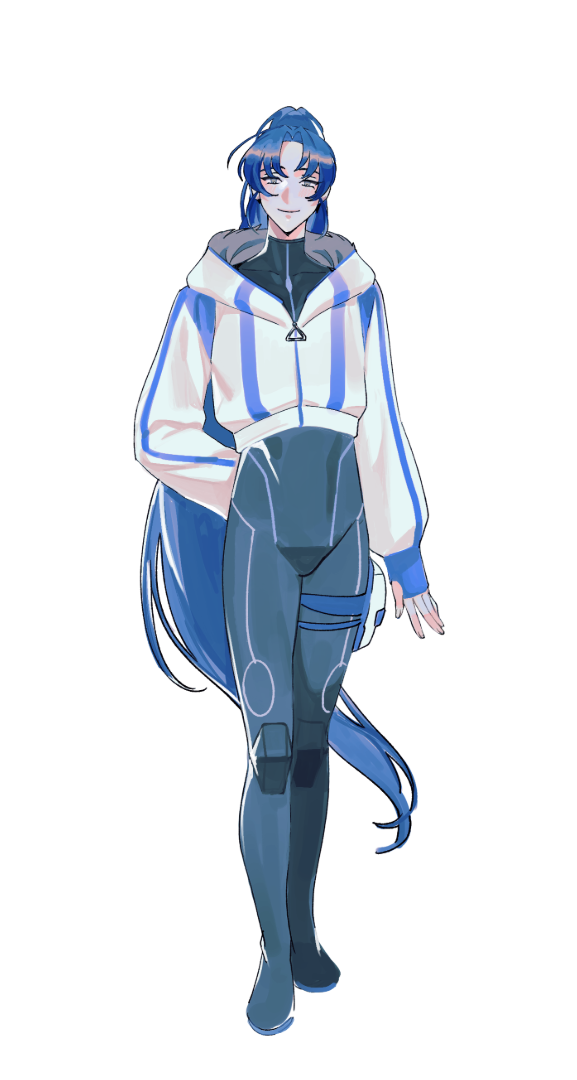
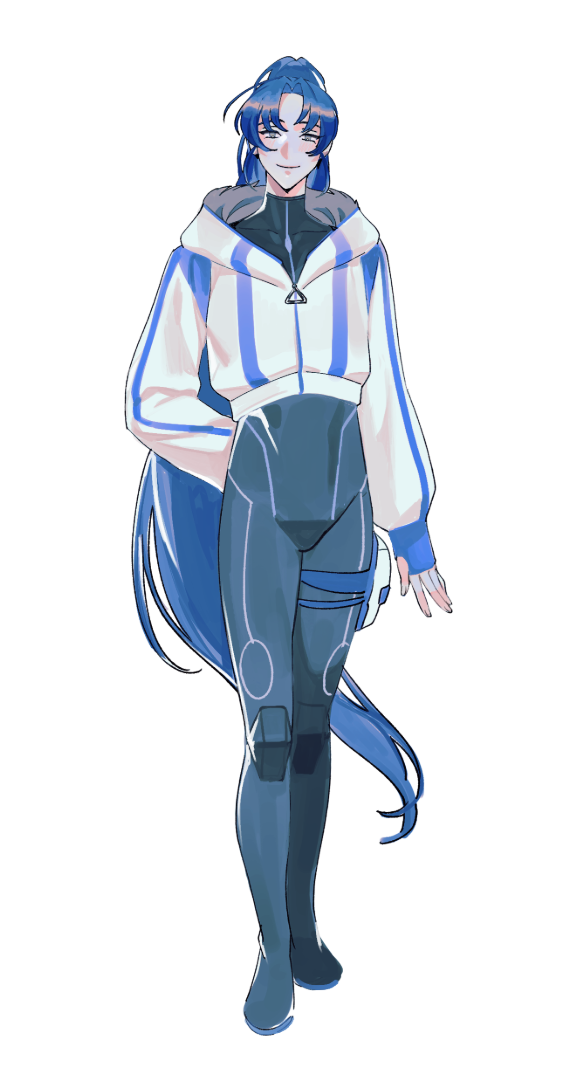
feat: 6명 한복테크웨어 의상 추가 + 옷장 전환/무대 접기 애니메이션 수정
- 옷장에 한복테크 의상 추가(이미지 6장 + 배치값), 사용자가 눈으로 보며 최종 미세조정
- 셀루카 키 오타(185→195) 수정 + 라인업 이미지 재생성
- 에스·민트의 옷장 전환 페이드가 안 보이던 버그 수정(.art 대신 .stage 전체를 페이드)
- 무대 접기 버튼 애니메이션 추가 + 그 과정에서 생긴 버튼 잘림 버그 수정

diff --git a/src/assets/css/profile.css b/src/assets/css/profile.css
@@ -88,13 +88,21 @@ body{font-family:'Chakra Petch','Pretendard','Gothic A1',sans-serif}
    맨 위에서 스크롤을 앞뒤로 오갈 때 그 차이만큼(예: 4px) 옷장·무대가 뚝뚝 튀는(들썩거리는) 게 없어짐 —
    .sheet padding-top 값이 바뀌면 이 +4px 도 같이 맞출 것. */
 .left-fixed{position:relative;position:sticky;top:calc(var(--osbar-h) + var(--topbar-h) + 4px);display:grid;grid-template-columns:88px auto;gap:20px;align-items:start}
+  /* ★overflow:hidden을 여기 두면 안 됨(2026-08-03 버그) — .stage-fold-tab이 이 박스 오른쪽 경계에
+     절반 걸쳐 있는데(right:-14px), overflow:hidden이면 탭 절반이 잘려 보임. 어차피 opacity:0인 동안엔
+     보이지도 않으니(아래) 클리핑 없이도 안 튀어 보임 — 굳이 필요 없어서 뺌. */
 /* 읽기 모드(2026-08-01) : 옷장·무대(.left-fixed)를 접고 .file이 그 폭까지 넓게 채운다.
    첫 칸을 0이 아니라 28px로 남겨두는 건 아래 .stage-fold-tab(접기 탭)이 계속 앉을 자리를 주기 위함 —
    탭은 .left-fixed 오른쪽 끝에 붙여두므로(right:-14px) 이 칸이 좁아지면 탭도 따라 왼쪽으로 붙는다.
    좁은 화면(아래 미디어쿼리)은 그 자체로 1열 스택이라 따로 오버라이드함. */
 .sheet.read-mode{grid-template-columns:28px 1fr}
-.sheet.read-mode .left-fixed .wardrobe,
-.sheet.read-mode .left-fixed .stage-col{display:none}
+/* ★부드러운 접기/펼치기(2026-08-03) — grid-template-columns 자체는 auto/minmax↔고정값 조합이라
+   브라우저가 트랜지션을 못 태워 순간 스냅되므로, 열 폭이 바뀌기 '전에' 내용만 먼저 페이드로 지웠다가
+   (.folding) 빈 상태로 열 폭을 스냅 전환하고, 펼칠 땐 열 폭을 먼저 스냅으로 늘린 뒤 내용을 페이드인한다
+   (profile.js 가 두 클래스를 시간차로 여닫음) — 결과적으로 뚝 끊기지 않고 부드럽게 보임. */
+.left-fixed .wardrobe,.left-fixed .stage-col{transition:opacity .2s ease}
+.sheet.folding .left-fixed .wardrobe,
+.sheet.folding .left-fixed .stage-col{opacity:0;pointer-events:none}
 /* 접기/펼치기 탭 : 옷장·무대와 서술카드 사이 경계에 걸쳐 놓는 작은 원형 화살표.
    FX ON/SCAN ON 같은 사각 상태칩과는 확실히 다른 모양(원형+화살표 아이콘)이라 "이걸 누르면 옆이 접힌다"가 바로 보임.
    위치는 .left-fixed 오른쪽 끝 고정(right:-14px, 절반은 카드 쪽으로 걸침) — 접힌 뒤 .left-fixed 폭이 28px로
@@ -130,7 +138,8 @@ body{font-family:'Chakra Petch','Pretendard','Gothic A1',sans-serif}
   border-radius:6px;overflow:hidden;
   background:radial-gradient(90% 70% at 50% 18%,var(--elev),transparent 62%),linear-gradient(180deg,var(--elev2) 0%,var(--bg-tint) 100%);
   border:1px solid var(--line-soft);box-shadow:0 10px 40px -20px rgba(40,60,90,.35);
-  display:flex;flex-direction:column;align-items:center;justify-content:flex-end}
+  display:flex;flex-direction:column;align-items:center;justify-content:flex-end;
+  transition:opacity .35s ease}   /* ★옷장 의상 전환 페이드(2026-08-03) — 무대 전체를 페이드해서 안의 진짜 이미지든 효과 캔버스든 다 같이 가려짐 */
 .stage .corner{position:absolute;width:20px;height:20px;border:1.5px solid var(--accent-line);z-index:6}
 .stage .corner.tl{top:12px;left:12px;border-right:none;border-bottom:none}
 .stage .corner.tr{top:12px;right:12px;border-left:none;border-bottom:none}

diff --git a/src/assets/js/profile.js b/src/assets/js/profile.js
@@ -119,16 +119,20 @@
         s.classList.add('on');               // 슬롯 선택 표시(즉시)
         if(!art){ applyAll(s); return; }
         // ★의상 전환을 부드럽게 : 새 의상 미리 로드 → 페이드아웃 → 교체 → 페이드인 (뚝 바뀌지 않게)
-        //   페이드는 .art/.ghost 의 CSS transition:opacity 가 담당(별도 애니메이션 불필요).
+        //   ★.art/.ghost 각각이 아니라 .stage 전체를 페이드한다(2026-08-03, 이전엔 .art만 페이드했더니
+        //   S·민트처럼 '화면 장악' 효과가 진짜 일러 대신 캔버스에 매 프레임 그림을 새로 그려서 보여주는
+        //   경우엔 안 보였음 — 캔버스는 opacity 트랜지션과 무관하게 매 프레임 그대로 다시 그려지기 때문.
+        //   부모인 .stage 자체를 페이드하면 안에 뭐가 있든(진짜 이미지든 캔버스든) 다 같이 가려진다).
+        var stageEl = document.querySelector('.stage');
         var pre = new Image();               // 교체 순간 깜빡임 방지용 사전 로드
         var swap = function(){
           art.src = img; if(ghost) ghost.src = img;   // (이미 로드된) 새 의상으로 교체
           applyAll(s);                                 // 크기·위치도 새 의상 기준으로
-          art.style.opacity = ''; if(ghost) ghost.style.opacity = '';   // 페이드인
+          if(stageEl) stageEl.style.opacity = '';       // 페이드인
         };
         pre.onload = pre.onerror = function(){
-          art.style.opacity = '0'; if(ghost) ghost.style.opacity = '0'; // 페이드아웃
-          setTimeout(swap, 300);             // .art transition(.35s)에 맞춰 거의 사라진 뒤 교체→페이드인
+          if(stageEl) stageEl.style.opacity = '0';      // 페이드아웃
+          setTimeout(swap, 300);             // .stage transition(.35s)에 맞춰 거의 사라진 뒤 교체→페이드인
         };
         pre.src = img;
       });
@@ -447,15 +451,26 @@
 (function(){
   var btn = document.getElementById('stageViewToggle'), sheet = document.querySelector('.sheet');
   if(!btn || !sheet) return;
-  var expanded = true;
-  function paint(){
-    sheet.classList.toggle('read-mode', !expanded);
+  var expanded = true, busy = false;
+  function paintBtn(){
     btn.textContent = expanded ? '‹' : '›';
     btn.title = expanded ? '옷장·무대 접기' : '옷장·무대 펼치기';
   }
-  paint();
+  paintBtn();
   btn.addEventListener('click', function(){
-    expanded = !expanded;
-    paint();
+    if(busy) return;                 // 애니메이션 도중 연타 방지
+    expanded = !expanded; paintBtn(); busy = true;
+    if(!expanded){
+      // 접기 : 내용부터 페이드아웃(.2s) → 다 지워진 뒤에야 열 폭을 스냅으로 줄인다(빈 상태라 안 튐).
+      sheet.classList.add('folding');
+      setTimeout(function(){ sheet.classList.add('read-mode'); busy = false; }, 200);
+    } else {
+      // 펼치기 : 열 폭부터 스냅으로 늘리고(아직 내용은 숨김 상태) → 다음 프레임에 페이드인.
+      sheet.classList.remove('read-mode');
+      requestAnimationFrame(function(){
+        sheet.classList.remove('folding');
+        setTimeout(function(){ busy = false; }, 200);
+      });
+    }
   });
 })();

diff --git a/src/tools/profile-builder.html b/src/tools/profile-builder.html
@@ -1810,7 +1810,7 @@ function buildSrcdoc(st){
     '<link href="https://fonts.googleapis.com/css2?family=Orbitron:wght@600;700;900&family=Chakra+Petch:ital,wght@0,300;0,400;0,500;0,600;1,300;1,400&family=Share+Tech+Mono&family=Gothic+A1:wght@300;400;500;700;800&display=swap" rel="stylesheet">'+
     '<link rel="stylesheet" href="../../assets/css/common.css">'+
     '<link rel="stylesheet" href="../../assets/css/transitions.css">'+
-    '<link rel="stylesheet" href="../../assets/css/profile.css?v=46">'+
+    '<link rel="stylesheet" href="../../assets/css/profile.css?v=47">'+
     '<style>:root,:root[data-theme="dark"]{--accent:'+accent+';--accent2:'+accent2+';'+(st.statPlus?'--stat-plus:'+st.statPlus+';':'')+'}:root[data-theme="light"]{--accent:'+accentL+';'+(accent2L?'--accent2:'+accent2L+';':'')+'}'+
     '.stage .ghost{display:block}'+   /* 미리보기(폭 좁음)에서 고스트 확실히 표시 — profile.css 캐시와 무관하게. !important 안 씀=이미지 없을 때 profile.js 인라인 숨김은 존중 */
     '[data-edit]{cursor:text;border-radius:3px}[data-edit]:hover{box-shadow:0 0 0 1px var(--accent-line,#7aa)}[data-edit]:focus{outline:none;box-shadow:0 0 0 2px var(--accent);background:rgba(120,180,210,.07)}'+
@@ -1855,7 +1855,7 @@ function buildSrcdoc(st){
     '<script>window.CHAR_META='+CH(st.meta)+';window.CHAR_STATS='+CH(st.stats)+';'+
       'window.CHAR_WARDROBE='+CH(ward)+';window.CHAR_GENERATIONS='+CH(gens)+';<\/script>'+
     '<script src="../../assets/js/common.js?v=7"><\/script>'+
-    '<script src="../../assets/js/profile.js?v=31"><\/script>'+
+    '<script src="../../assets/js/profile.js?v=32"><\/script>'+
     '<script src="../../assets/js/stage-fx.js?v=129"><\/script>'+
     // 서술/확장 카드 안 코드블럭 문법강조(실제 페이지 _layouts/character.html과 같은 CDN 라이브러리 — 모양 바꾸면 거기도 같이).
     //   미리보기는 폼을 고칠 때마다 liveText()가 이 패널만 다시 그리는데, 그때는 페이지 재로드가 아니라서 이 스크립트가 다시

diff --git a/src/characters/seluka/index.html b/src/characters/seluka/index.html
@@ -7,8 +7,8 @@ art: "seluka_full.png"
 art_artist: "숨니"
 art_alt: "셀루카 디안"
 meta: { title: "SELUKA", record: "M-05", crumb: "SELUKA", sector: "HEADQUARTER · SECTOR 1", code: "SELUKA", id: "TS-M05" }
-roster: { ko: "셀루카", role: "HITMAN", age: "21Y", height: 185, sec: 1 }
-namehead: { eyebrow: "얼어붙은 다정", kr: "셀루카 디안", en: "SELUKA Dian", idmeta: "21Y · 185cm · 3/20 · 제1지부 히트맨" }
+roster: { ko: "셀루카", role: "HITMAN", age: "21Y", height: 195, sec: 1 }
+namehead: { eyebrow: "얼어붙은 다정", kr: "셀루카 디안", en: "SELUKA Dian", idmeta: "21Y · 195cm · 3/20 · 제1지부 히트맨" }
 idcard: { img: "seluka_id.jpg", status: "ACTIVE" }
 stats:
   - ["신체강도", 5]
@@ -26,7 +26,7 @@ stats:
 wardrobe:
   - { cap: "후드", img: "seluka_full.png", artist: "숨니", "on": true, arth: "97%", shiftx: "11%", shift: "-1%", ghosth: "124.5%", ghostx: "3%", ghosty: "-1%" }
   - { cap: "정장", img: "" }
-  - { cap: "한복테크", img: "" }
+  - { cap: "한복테크", img: "seluka_hanbok.png", artist: "숨니,빠", arth: "89.3%", shiftx: "11.3%", shift: "-6.5%", ghosth: "124.3%", ghostx: "6.9%", ghosty: "1.9%" }
 generations:
   current: "3"
   items:

diff --git a/src/_layouts/character.html b/src/_layouts/character.html
@@ -11,7 +11,7 @@
 
 <link rel="stylesheet" href="../../assets/css/common.css?v=2">
 <link rel="stylesheet" href="../../assets/css/transitions.css?v=1">
-<link rel="stylesheet" href="../../assets/css/profile.css?v=46">
+<link rel="stylesheet" href="../../assets/css/profile.css?v=47">
 <script src="../../assets/js/common.js?v=7"></script>
 <script src="../../assets/js/transitions.js?v=3"></script>
 
@@ -114,7 +114,7 @@
   window.CHAR_GENERATIONS = {{ page.generations | jsonify }};
   window.CHAR_ROSTER      = {{ page.roster      | jsonify }};
 </script>
-<script src="../../assets/js/profile.js?v=31"></script>
+<script src="../../assets/js/profile.js?v=32"></script>
 <script src="../../assets/js/stage-fx.js?v=129"></script>
 <script src="../../assets/js/motion.js?v=3"></script>
 <!-- 서술/확장 카드 안 코드블럭(```로 감싼 부분) 문법강조. 코드블럭이 없는 캐릭터는 그냥 아무 일도 안 함. -->

diff --git a/src/characters/s/index.html b/src/characters/s/index.html
@@ -24,8 +24,8 @@ stats:
   - ["살상능력", 3]
 wardrobe:
   - { cap: "후드", img: "s_full.png", artist: "빠", "on": true, shiftx: "2.8%", shift: "-7.6%", ghostx: "1.1%", ghosty: "0.6%" }
-  - { cap: "정장", img: "s_suit.png", arth: "94.6%", shiftx: "6.5%", shift: "-2.2%", ghostx: "0.9%", ghosty: "-1.9%" }
-  - { cap: "한복테크", img: "" }
+  - { cap: "정장", img: "s_suit.png", artist: "빠", arth: "94.6%", shiftx: "6.5%", shift: "-2.2%", ghosth: "130.5%", ghostx: "1.8%", ghosty: "-0.5%" }
+  - { cap: "한복테크", img: "s_hanbok.png", artist: "빠", arth: "84.3%", shiftx: "10.4%", shift: "-8%", ghosth: "123%", ghostx: "4.4%", ghosty: "0.6%" }
 generations:
   current: "3"
   items:

diff --git a/src/characters/merely/index.html b/src/characters/merely/index.html
@@ -25,7 +25,7 @@ stats:
 wardrobe:
   - { cap: "후드", img: "merely_full.png", artist: "시시", "on": true, arth: "85%", shiftx: "10.9%", shift: "-5.6%", ghostx: "5.6%", ghosty: "2.2%" }
   - { cap: "정장", img: "merely_suit.png", artist: "시시", arth: "85%", shiftx: "11%", shift: "-5.5%", ghostx: "5.5%", ghosty: "2%" }
-  - { cap: "한복테크", img: "" }
+  - { cap: "한복테크", img: "merely_hanbok.png", artist: "시시,빠", arth: "78.8%", shiftx: "12.9%", shift: "-9.6%", ghosth: "119%", ghostx: "7.7%", ghosty: "-0.3%" }
 generations:
   current: "3"
   items:

diff --git a/src/characters/meant/index.html b/src/characters/meant/index.html
@@ -25,7 +25,7 @@ stats:
 wardrobe:
   - { cap: "후드", img: "meant_full.png", artist: "믕", "on": true, arth: "85%", shiftx: "2.6%", shift: "-5.9%", ghosth: "123%", ghostx: "1%", ghosty: "1%" }
   - { cap: "정장", img: "" }
-  - { cap: "한복테크", img: "" }
+  - { cap: "한복테크", img: "meant_hanbok.png", artist: "믕, 빠", arth: "84.2%", shiftx: "5%", shift: "-7.2%", ghosth: "120%", ghostx: "1%", ghosty: "1%" }
 generations:
   current: "3"
   items:

diff --git a/src/characters/vector/index.html b/src/characters/vector/index.html
@@ -25,7 +25,7 @@ stats:
 wardrobe:
   - { cap: "후드", img: "" }
   - { cap: "정장", img: "vector_full.png", artist: "생강생각", "on": true, arth: "93.5%", shiftx: "12.5%", shift: "-2.3%", ghosth: "119.5%", ghostx: "8.7%", ghosty: "-2.8%" }
-  - { cap: "한복테크", img: "" }
+  - { cap: "한복테크", img: "vector_hanbok.png", artist: "랴,빠", arth: "88.3%", shiftx: "2.8%", shift: "-4.8%", ghosth: "119.5%" }
 generations:
   current: "3"
   items:

diff --git a/src/characters/myt/index.html b/src/characters/myt/index.html
@@ -25,7 +25,7 @@ stats:
 wardrobe:
   - { cap: "후드", img: "myt_full.png", artist: "꼬", "on": true }
   - { cap: "정장", img: "" }
-  - { cap: "한복테크", img: "" }
+  - { cap: "한복테크", img: "myt_hanbok.png", artist: "꼬,빠", arth: "78.9%", shiftx: "21.2%", shift: "-12.9%", ghosth: "124.7%", ghostx: "13.9%", ghosty: "2.3%" }
 generations:
   current: "3"
   items:
